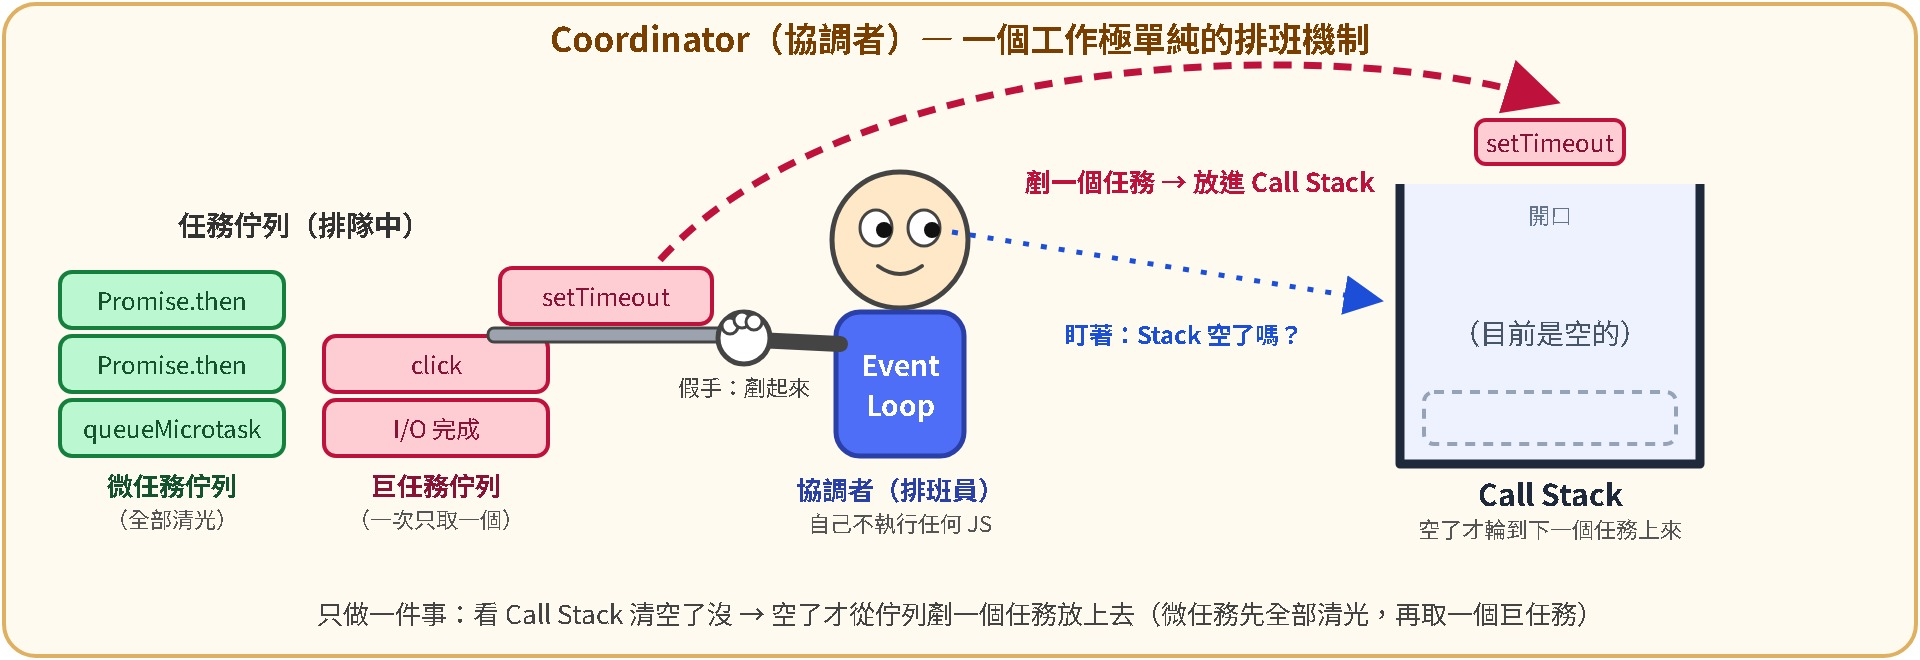
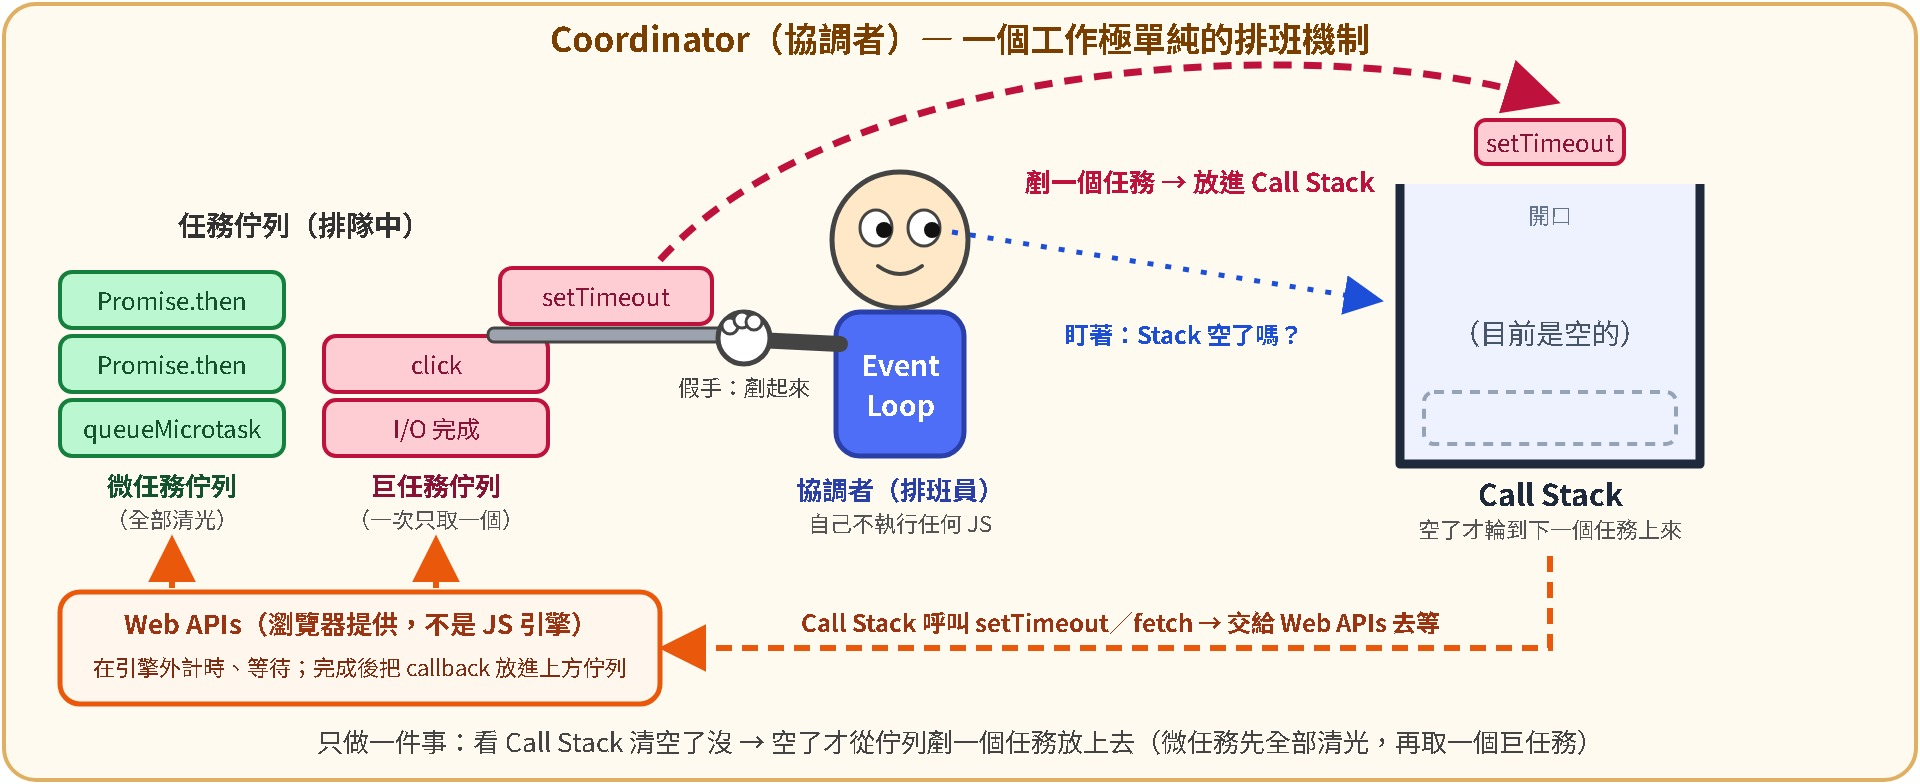
docs(notes): 兩張圖加入 Web APIs 與 Service Worker；補 Worker 三種類型並附官方資料來源（HTML 規格、MDN、Node.js），Node worker_threads 因官方未明寫而不下結論

diff --git a/frontend-docs/javascript/JS_Core_and_Runtime/事件循環-Event-Loop-微任務與巨任務-互動版.html b/frontend-docs/javascript/JS_Core_and_Runtime/事件循環-Event-Loop-微任務與巨任務-互動版.html
@@ -147,9 +147,9 @@ eatBreakfast(); // 程式從這裡開始
 <td>是</td>
 </tr>
 <tr>
-<td>Web Worker／Node.js worker_threads（每開一個）</td>
+<td>Web Worker（專用 Dedicated、共用 Shared、Service Worker，每一條各算一個）</td>
 <td>有，各一個，彼此不共用</td>
-<td>有，各自一個</td>
+<td>有，各自一個（規格稱 worker event loop）</td>
 <td>是</td>
 </tr>
 <tr>
@@ -162,6 +162,7 @@ eatBreakfast(); // 程式從這裡開始
 </table>
 <p><img src="../../../obsidian-attachment/事件循環_一條執行緒含一個CallStack與一個EventLoop_2026-10-13.svg" alt="一條執行緒＝一個 Call Stack＋一個 Event Loop" style="max-width:100%;height:auto"></p>
 <p>主執行緒和 Worker 靠 <code>postMessage</code> 傳訊息：對方收到的訊息，會變成它自己 Event Loop 裡的一個巨任務。因為不共用 Call Stack，<mark style="background: #FFF3A3A6;">Worker 裡的死迴圈不會讓主執行緒的畫面凍結</mark>，這也是重運算丟給 Worker 的原因。上面「Web APIs（多執行緒）在旁邊幫忙等待」的那些執行緒不跑你的 JS，所以沒有 JS 的 Call Stack。</p>
+<p>Worker 有三種：<mark style="background: #ADCCFFA6;">Dedicated Worker</mark>（只給建立它的腳本用，一般說的 Web Worker）、<mark style="background: #ADCCFFA6;">Shared Worker</mark>（多個頁面或 Worker 共用）、<mark style="background: #ADCCFFA6;">Service Worker</mark>（網路代理：攔截請求、離線快取、推播）。依 HTML 規格，三種各是自己的 agent，各有一個 worker event loop，也都沒有 DOM。Node.js 的 <code>worker_threads</code> 官方文件稱它是「獨立的 JavaScript 執行緒」，但沒有逐字寫「各有自己的 Event Loop」，本篇不下結論。官方出處見 <code>.md</code> 版文末「資料來源」。</p>
 <p>C++、Java 這類語言習慣直接開多條執行緒（Python、Go、Rust、C# 也都支援，不是只有它們）：多條執行緒共用同一塊記憶體，能在多核心 CPU 上真的同時跑，CPU 密集的計算通常因此變快；代價是<mark style="background: #FF5582A6;">死結（Deadlock）與競爭條件（Race Condition：多條執行緒同時改同一份資料而衝突）</mark>，要靠鎖（lock／mutex）自己小心管理。JS 主執行緒反過來：一次只有一個 Call Stack 在動資料，不會兩邊同時改，換來的是「同步運算太久就卡住所有事」。</p>
 <table>
 <thead>
